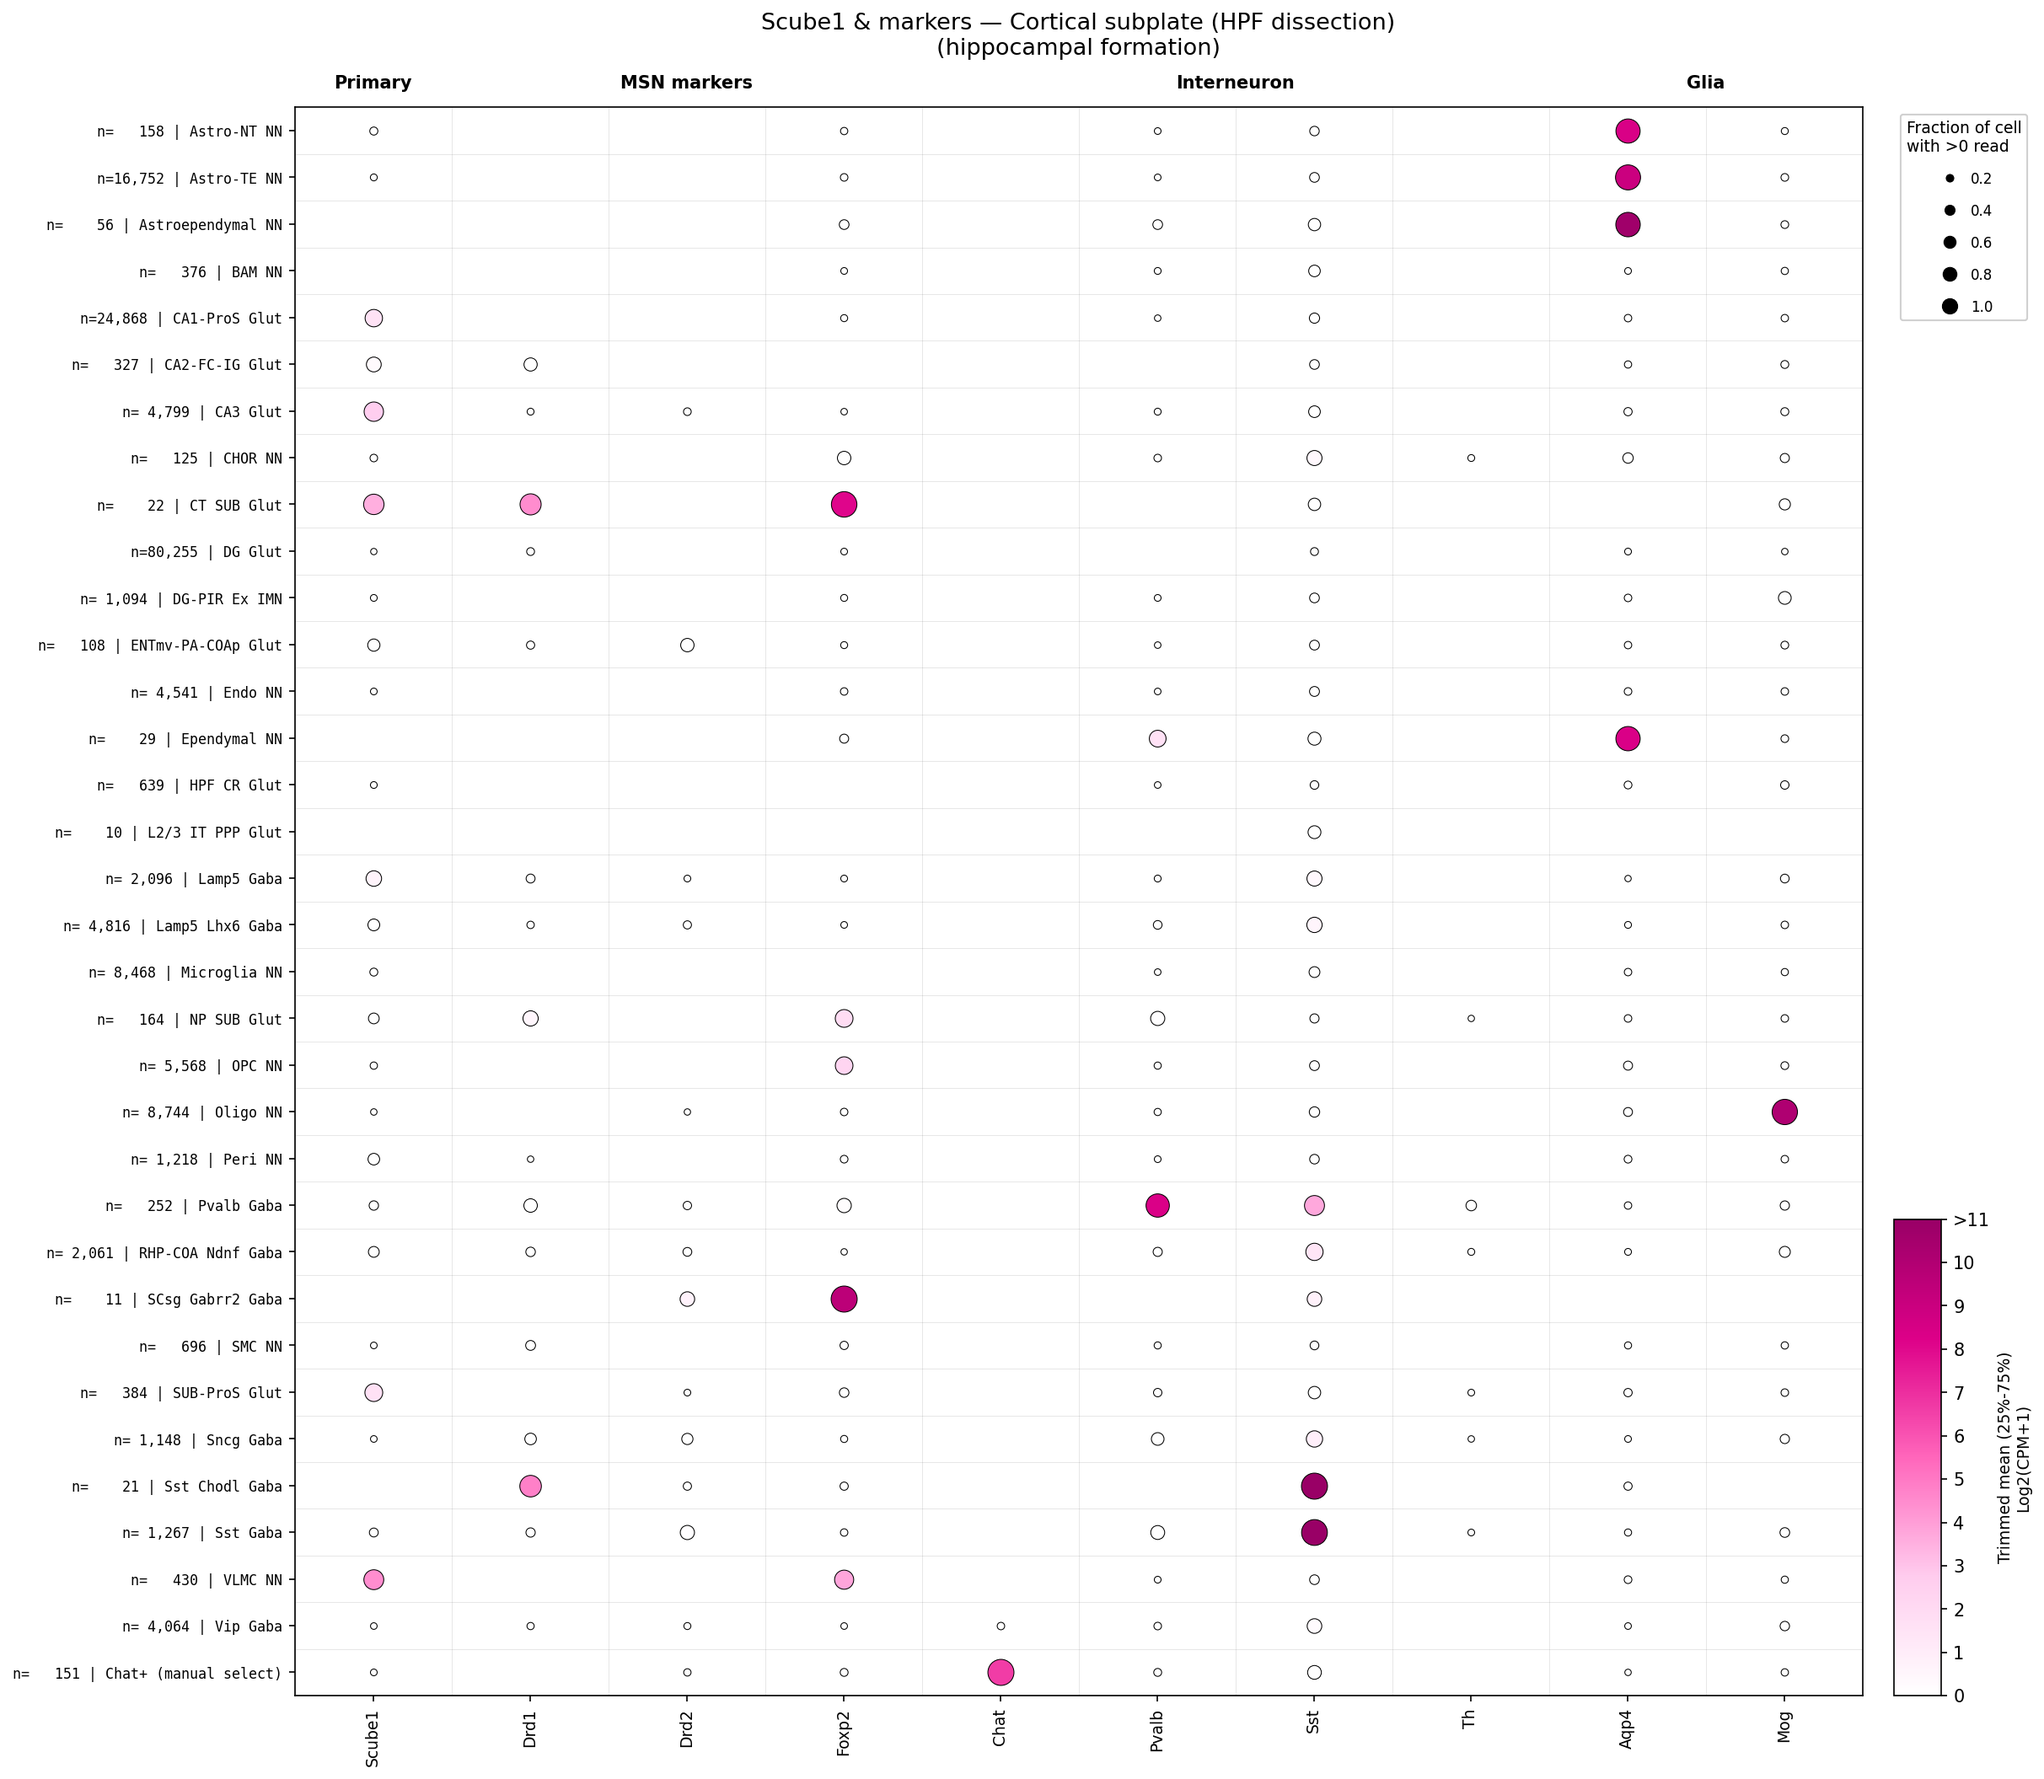
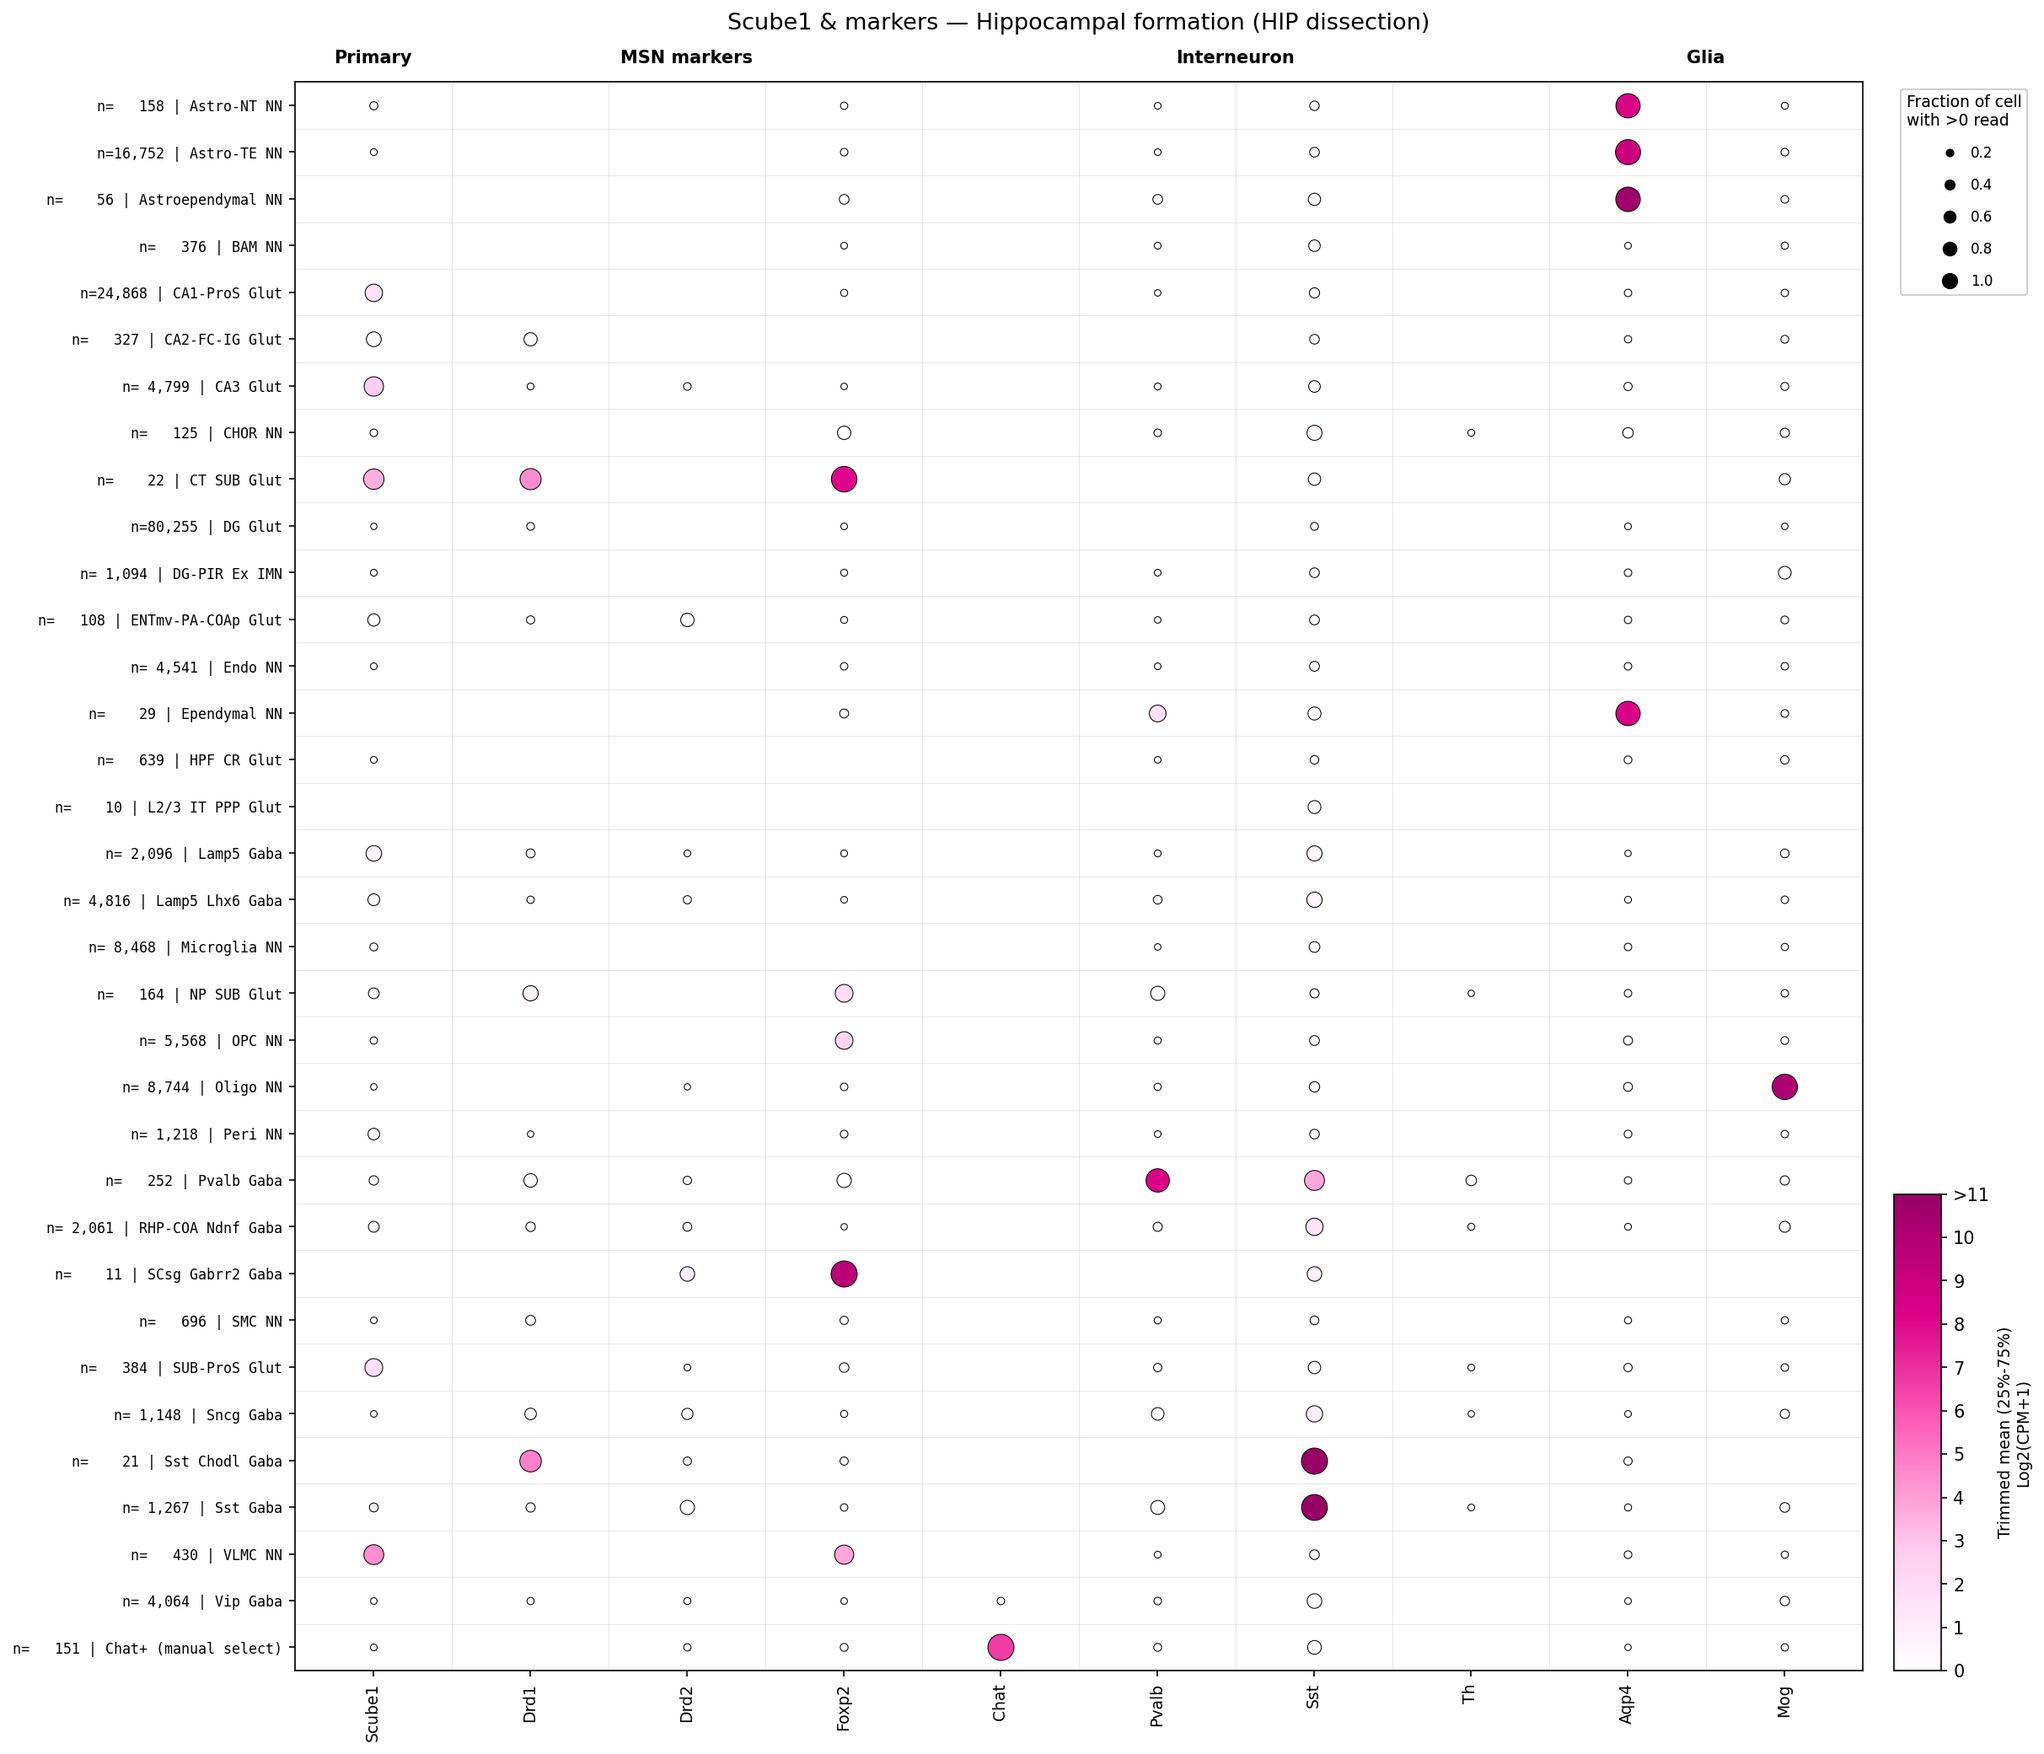
Fix HIP dotplot title (was incorrectly showing 'Cortical subplate')
https://claude.ai/code/session_01QmWcSUwRMBqByqerF5kxTQ

diff --git a/notebooks/extract_hip_expression.py b/notebooks/extract_hip_expression.py
@@ -178,7 +178,7 @@ ax.set_xlim(-0.5,ng-0.5); ax.set_ylim(-0.5,nc-0.5)
 for s,e,gname in gs: ax.annotate(gname, xy=((s+e)/2,1.01), xycoords=('data','axes fraction'), ha='center', va='bottom', fontsize=10, fontweight='bold')
 for j in range(ng+1): ax.axvline(j-0.5, color='gray', lw=0.3, alpha=0.3, zorder=1)
 for i in range(nc+1): ax.axhline(i-0.5, color='gray', lw=0.3, alpha=0.3, zorder=1)
-ax.set_title('Scube1 & markers — Cortical subplate (HPF dissection)\n(hippocampal formation)', fontsize=13, pad=30)
+ax.set_title('Scube1 & markers — Hippocampal formation (HIP dissection))', fontsize=13, pad=30)
 h = [Line2D([0],[0],marker='o',color='w',ls='None',ms=np.sqrt(mi+(ms-mi)*f)/1.7,mfc='black',mec='black',mew=0.5,label=f'{f}') for f in [0.2,0.4,0.6,0.8,1.0]]
 leg = ax.legend(handles=h, title='Fraction of cell\nwith >0 read', loc='upper left', bbox_to_anchor=(1.02,1), frameon=True, fontsize=8, title_fontsize=9, handletextpad=0.5, labelspacing=1.2)
 ax.add_artist(leg)
